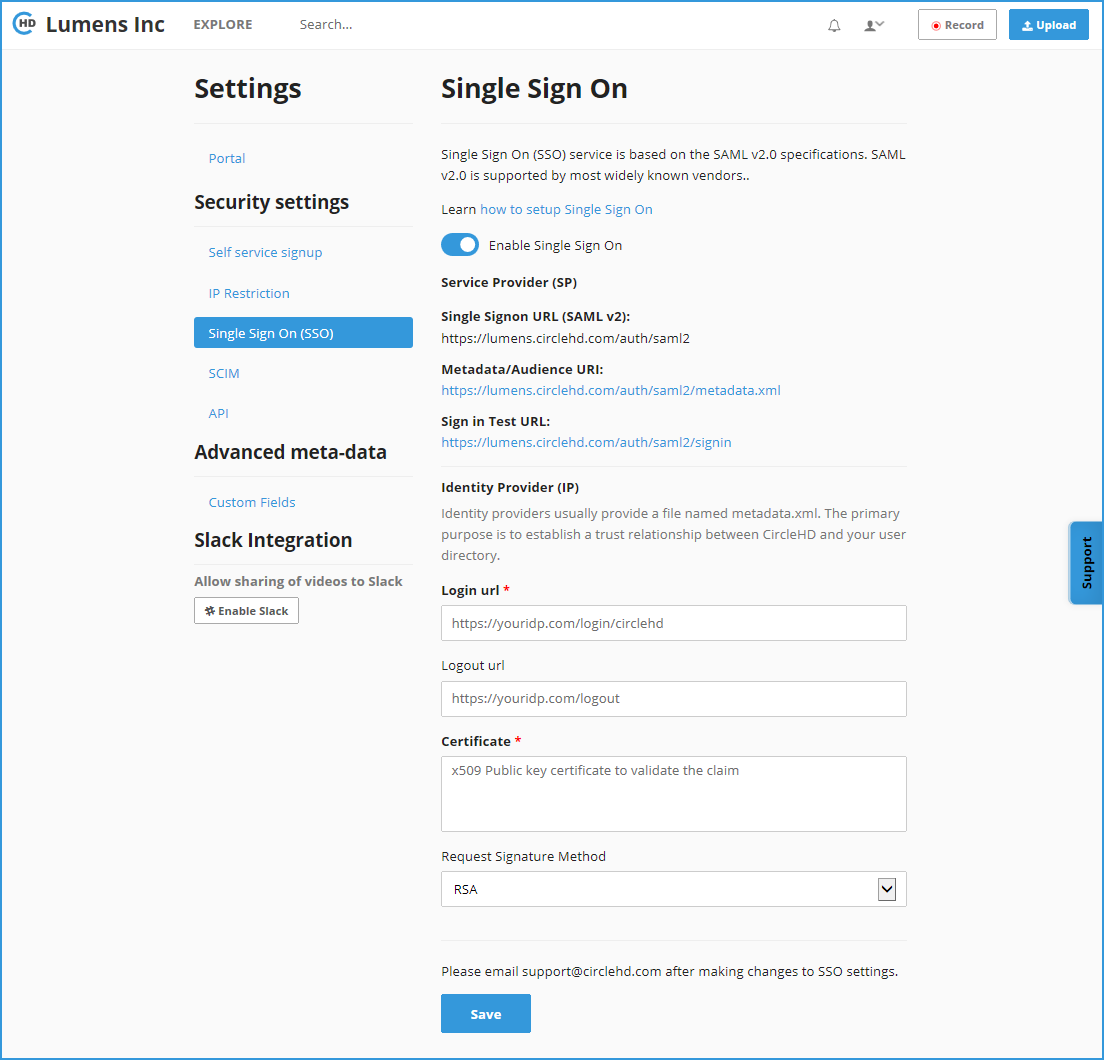
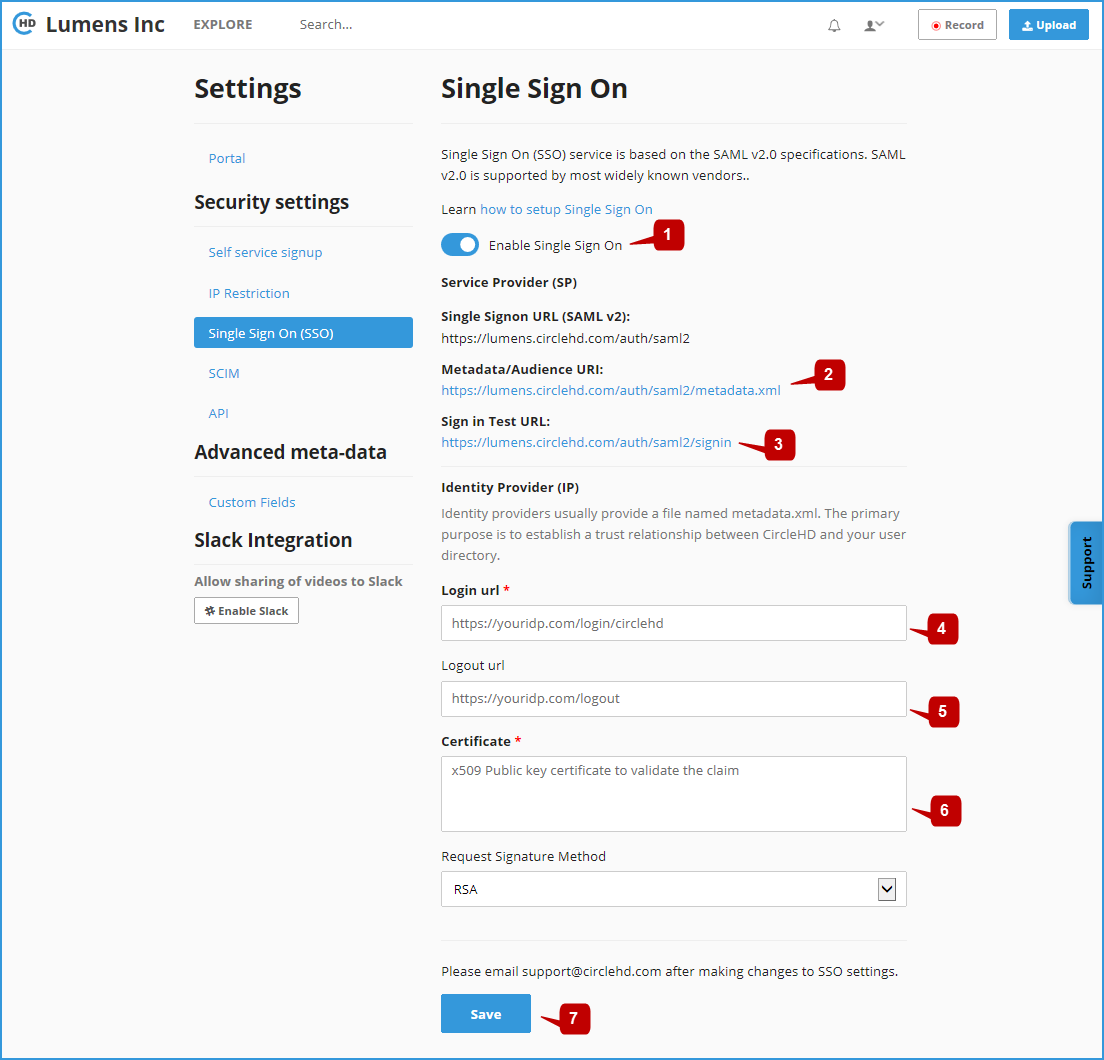
GitBook: [master] one page and 2 assets modified

diff --git a/management/settings/steps-to-integrate-sso-with-circlehd.md b/management/settings/steps-to-integrate-sso-with-circlehd.md
@@ -2,16 +2,16 @@
 
 **1-** First, login to your CircleHD portal with your admin credentials, and navigate to Portal Settings -&gt; Single Sign On \(SSO\), which should be at https://.circlehd.com/admin/sso 
 
-**2-** Turn On Enable Single Sign On Switch.
+**2-** Turn On Enable Single Sign On Switch **\[1\]**.
 
 ![](../../.gitbook/assets/help_mngmt_settings5.png)
 
-**3-** Provide the Metadata/Audience XML \(https://.circlehd.com/auth/saml2/metadata.xml\) to your IT SSO Admin. The document contains information about Audience system that allows your instance to verify that it is the intended recipient of a SAML response and generate corresponding certificate to be used by CircleHD. 
+**3-** Provide the Metadata/Audience XML **\[2\]** \(https://.circlehd.com/auth/saml2/metadata.xml\) to your IT SSO Admin. The document contains information about Audience system that allows your instance to verify that it is the intended recipient of a SAML response and generate corresponding certificate to be used by CircleHD. 
 
 **4-** Additionally, your Organization IT SSO Admin may ask for the following information and / or configurations,
 
 | 1 | App name | CircleHD |
-| --- | --- | --- | --- | --- | --- | --- | --- | --- | --- | --- | --- | --- | --- |
+| :--- | :--- | :--- |
 | 2 | App logo | DOWNLOAD FROM HTTPS://STATIC.CIRCLEHD.COM/PUBLIC/STATIC/IMG/CIRCLEHD-LOGO.ZIP |
 | 3 | Single sign on URL | https://&lt;YOUR DOMAIN&gt;.circlehd.com/auth/saml2 |
 | 4 | Use this for Recipient URL and Destination URL | Yes |
@@ -28,16 +28,16 @@
 
 **5-** Receive the following information from your IT SSO Admin to continue. This may be contained in the Identity Provider metadata XML File
 
-* **Login URL** \(Identity Provider Single Sign-On URL\):  TO BE USED FOR REDIRECTING USER WHEN AUTHENTICATION IS REQUIRED.
-* **Logout URL:** \(OPTIONAL\) THE DESTINATION FOR THE USER WHEN LOGGING OUT FROM CIRCLEHD.
-* **Certificate:** X509 PUBLIC KEY CERTIFICATE TO VALIDATE THE RESPONSE FROM YOUR IDP. 
+* **Login URL \[4\]** \(Identity Provider Single Sign-On URL\) :  TO BE USED FOR REDIRECTING USER WHEN AUTHENTICATION IS REQUIRED.
+* **Logout URL \[5\]:** \(OPTIONAL\) THE DESTINATION FOR THE USER WHEN LOGGING OUT FROM CIRCLEHD.
+* **Certificate \[6\]:** X509 PUBLIC KEY CERTIFICATE TO VALIDATE THE RESPONSE FROM YOUR IDP. 
 * Fill in all the Fields accordingly.
 
-**6-** Click on the "**Save**" button to save SSO Settings.
+**6-** Click on the "**Save**" button **\[7\]** to save SSO Settings.
 
 ## Test the Integration
 
-**1-** Navigate to on the Sign in Test URL: https://.circlehd.com/auth/saml2/signin
+**1-** Navigate to on the Sign in Test URL **\[3\]**: https://.circlehd.com/auth/saml2/signin
 
 **2-** Make sure you are able to login to CircleHD domain using your Org SSO Credentials.
 
